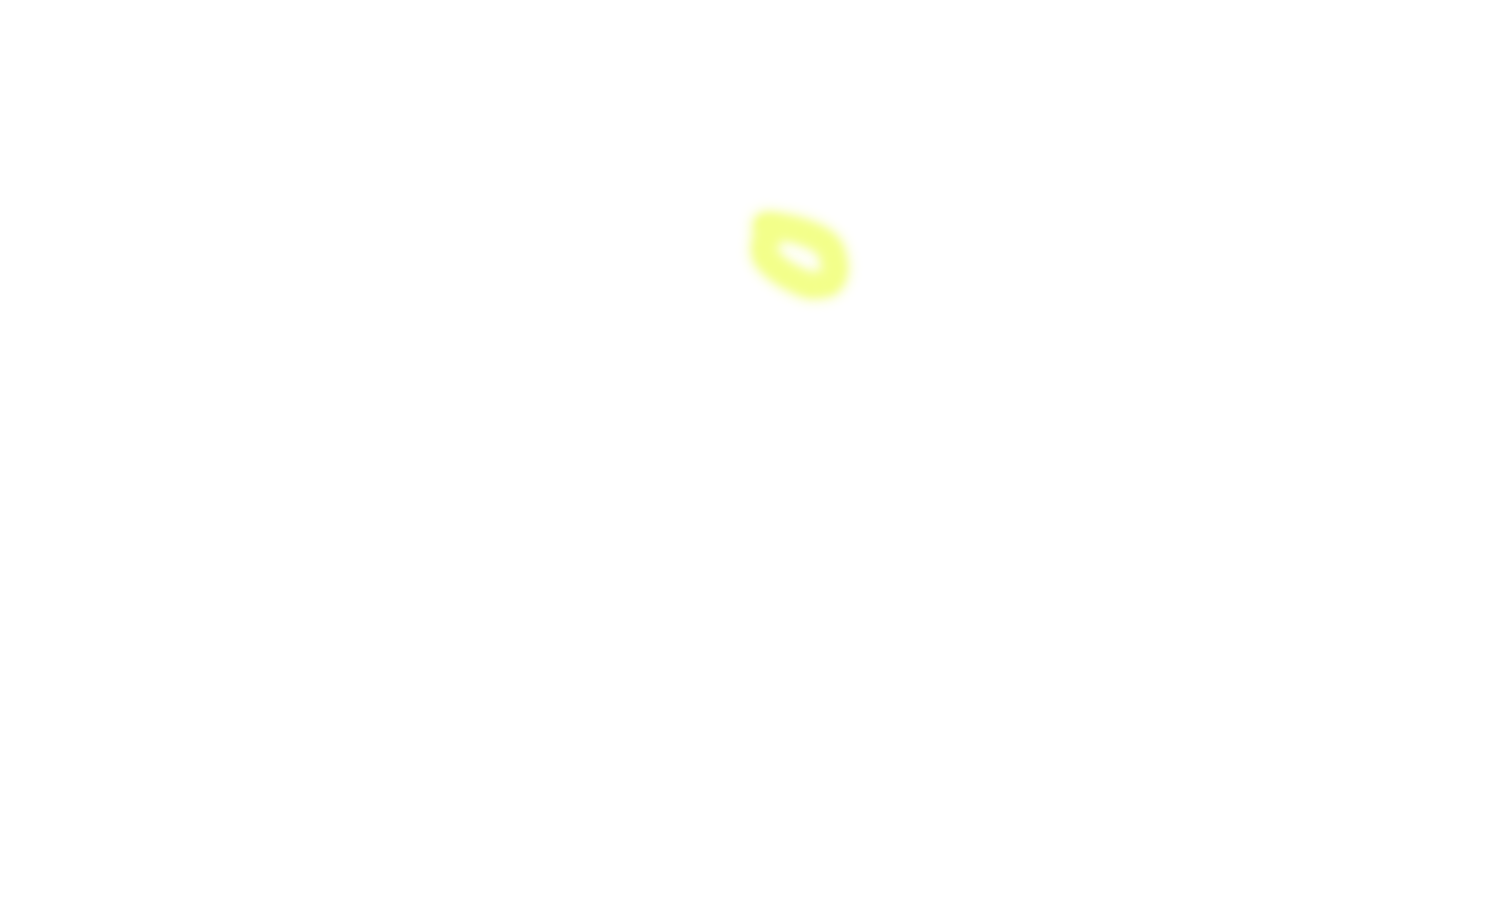
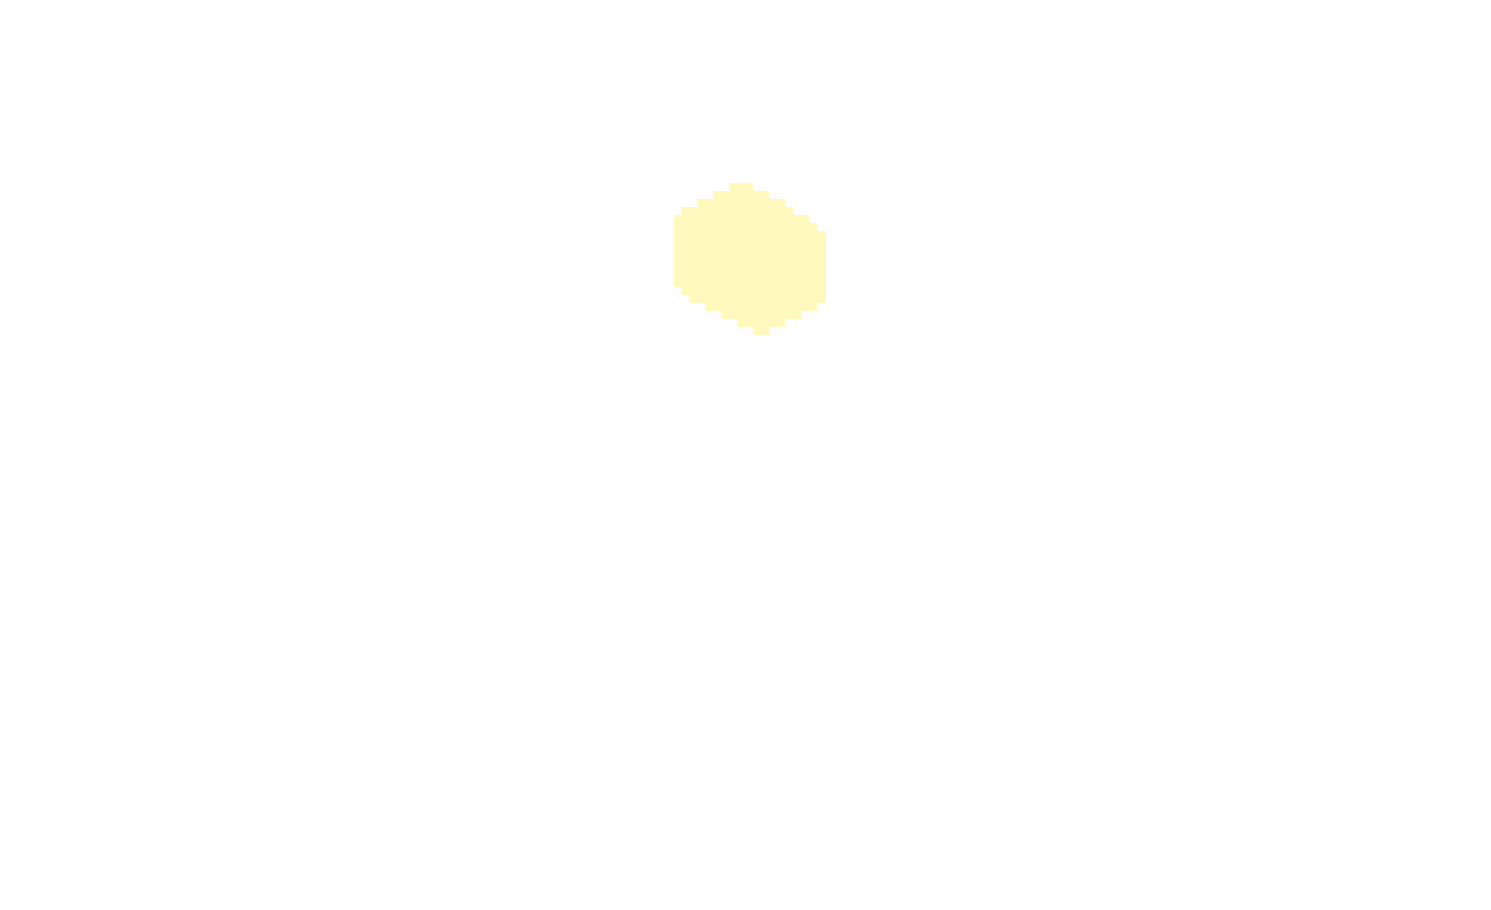
[feat][fix] Added all new kitchen art, fixed movement bug
Added all new kitchen art and modified controller to support it
fixed bug that caused error when moving to the exact same spot due to math error

Changed region(s): [[0.4319, 0.1846, 0.5862, 0.3692]]

diff --git a/src/main/java/nz/ac/auckland/se206/controllers/KitchenController.java b/src/main/java/nz/ac/auckland/se206/controllers/KitchenController.java
@@ -6,6 +6,7 @@ import javafx.animation.ParallelTransition;
 import javafx.animation.ScaleTransition;
 import javafx.event.ActionEvent;
 import javafx.fxml.FXML;
+import javafx.scene.image.Image;
 import javafx.scene.image.ImageView;
 import javafx.scene.input.KeyEvent;
 import javafx.scene.input.MouseEvent;
@@ -63,22 +64,6 @@ public class KitchenController {
     // get door marker position
     int doorMarkerX = (int) doorMarker.getLayoutX();
     int doorMarkerY = (int) doorMarker.getLayoutY();
-
-    // Set the initial position of the character within the Pane
-    character.setLayoutX(0); // Initial X position
-    character.setLayoutY(0); // Initial Y position
-
-    // Set the dimensions of the character
-    character.setFitWidth(150); // Width of character image
-    character.setFitHeight(150); // Height of character image
-
-    // Set the initial position of the running gif within the Pane
-    running.setLayoutX(0); // Initial X position
-    running.setLayoutY(0); // Initial Y position
-
-    // Set the dimensions of the running gif
-    running.setFitWidth(150); // Width of running gif
-    running.setFitHeight(150); // Height of running gif
 
     GameState.goToInstant(doorMarkerX, doorMarkerY, character, running);
   }
@@ -331,6 +316,7 @@ public class KitchenController {
             () -> {
               fridgeClosed.setVisible(false);
               fridgeOpen.setVisible(true);
+              floor.setImage(new Image("images/Kitchen/floorfridgeopen.png"));
               GameState.hasBread = true;
               GameState.addItem(GameState.Items.BREAD_UNTOASTED);
               SharedElements.appendChat("You find a stale loaf of bread in the fridge.");

diff --git a/src/main/java/nz/ac/auckland/se206/GameState.java b/src/main/java/nz/ac/auckland/se206/GameState.java
@@ -270,7 +270,6 @@ public class GameState {
   public static double goTo(
       double destinationX, double destinationY, ImageView character, ImageView running) {
 
-    character.setOpacity(0);
     // Retrieve the character's width and height using fitWidth and fitHeight
     double characterWidth = character.getFitWidth();
     double characterHeight = character.getFitHeight();
@@ -278,6 +277,11 @@ public class GameState {
     // Calculate the character's new position relative to the room
     double characterX = destinationX - characterWidth / 2; // Adjust for character's width
     double characterY = destinationY - characterHeight; // Adjust for character's height
+    if (characterX == character.getTranslateX() && characterY == character.getTranslateY()) {
+      return 0;
+    }
+
+    character.setOpacity(0);
 
     // Calculate the distance the character needs to move
     double distanceToMove =
